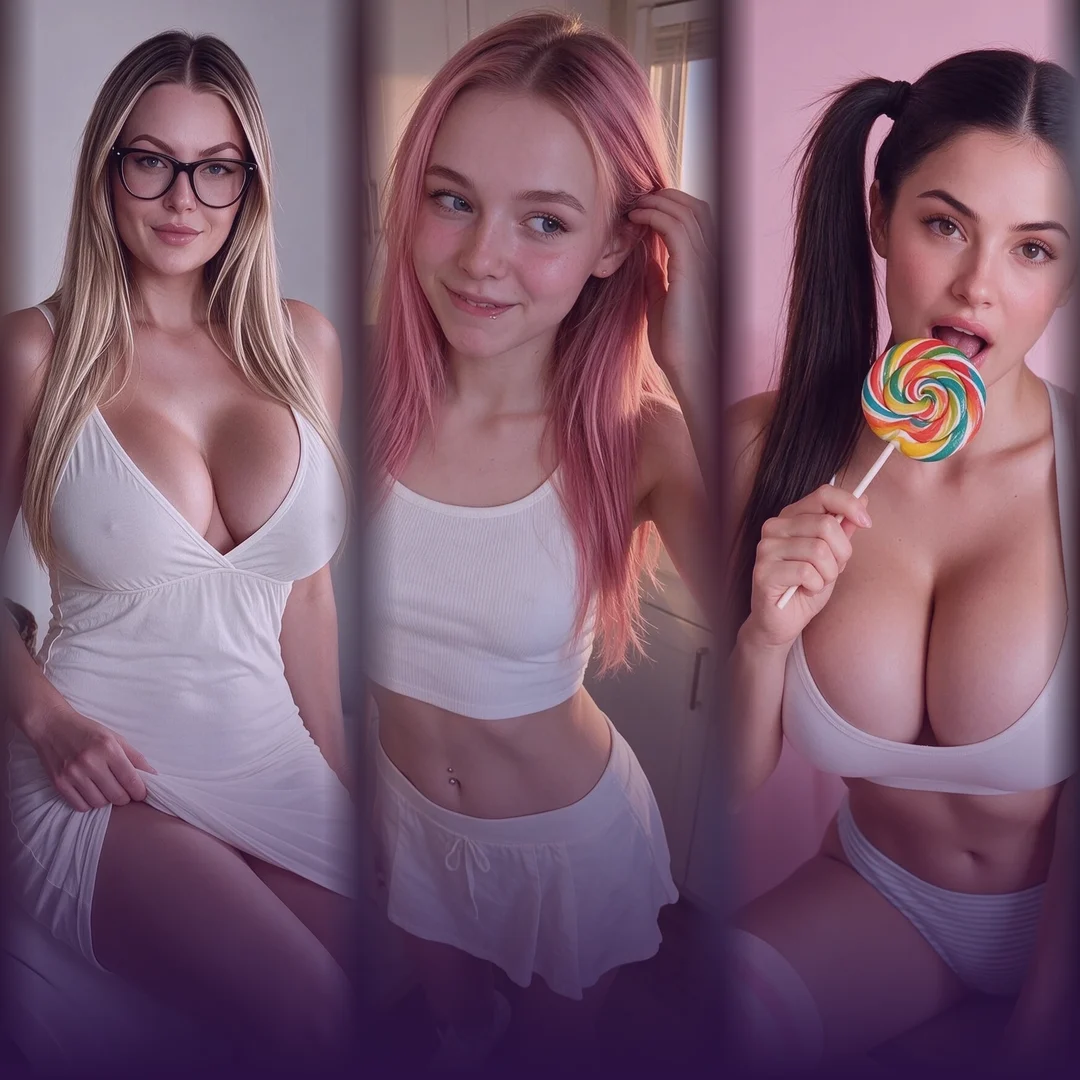
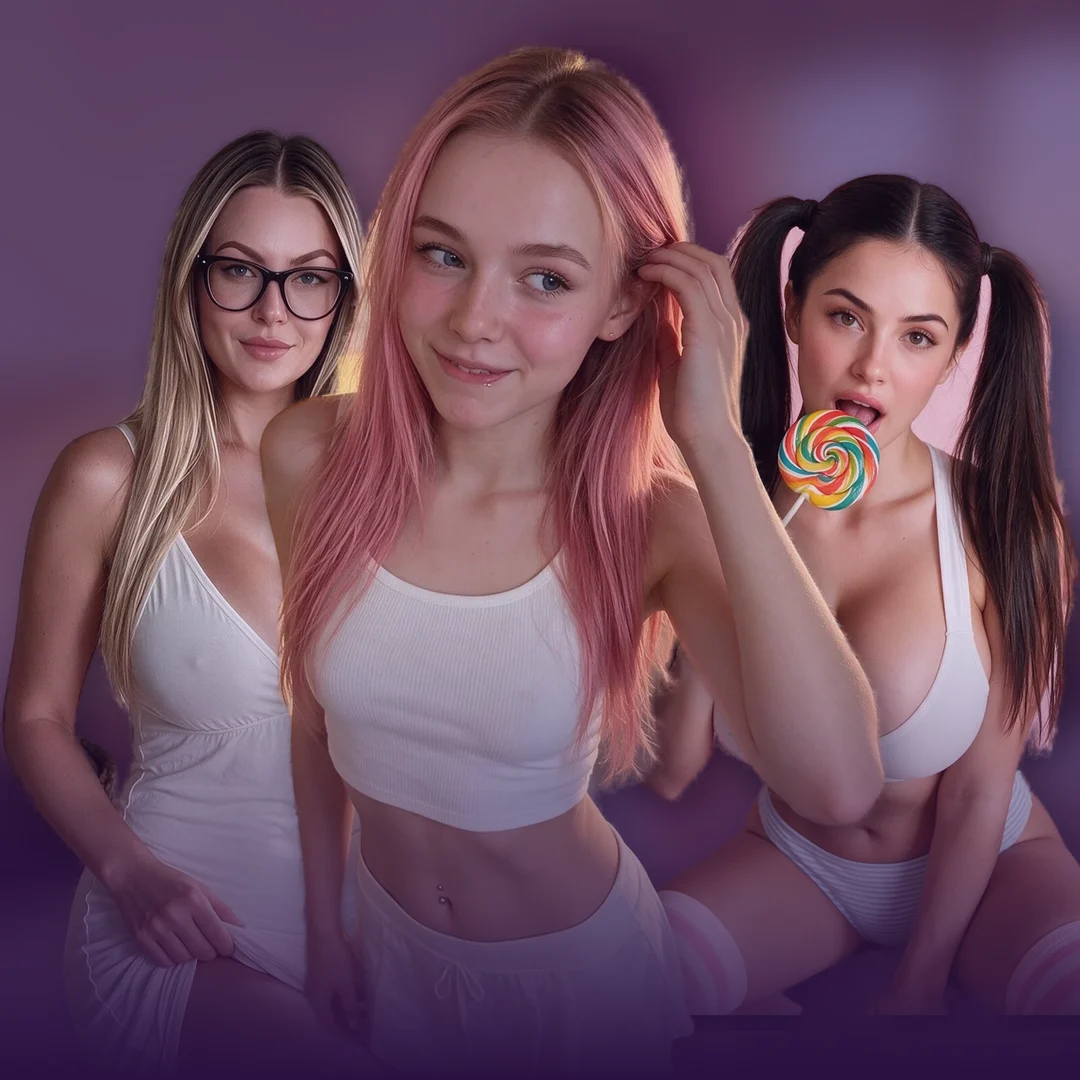
Каталог v2: промо-картинки как групповой снимок — три вырезанные фигуры на одном фоне
Вместо панелей-колонок: фон у девушек удалён (rembg, u2net_human_seg), фигуры поставлены
вместе на общий размытый фон с тенью, центральная впереди, боковые чуть сзади и мельче,
тонировка в цвет карточки. Скрипт сборки — assets/img/promo/compose-group.py
(compose-trio.py удалён). Фигуры — временные, с secrets.ai; до прода заменить на свои.

diff --git a/catalog/v2.html b/catalog/v2.html
@@ -769,7 +769,7 @@
 
   /* Промо-карточки сетки. Цену и скидку акции в проде отдаёт бэкенд (как у pb-sale),
      для VIP акция скрывается.
-     Фото promo/*-trio.webp — склейка трёх аватаров моделей secrets.ai (скрипт promo/compose-trio.py),
+     Фото promo/*-trio.webp — групповой снимок из трёх вырезанных аватаров моделей secrets.ai (скрипт promo/compose-group.py),
      временные; перед продом заменить на свои рендеры. */
   const createCard = `
     <a class="cc promo promo-create" href="#" data-intent="create" id="promo-create">

diff --git a/assets/img/promo/compose-group.py b/assets/img/promo/compose-group.py
@@ -1,0 +1,54 @@
+# Групповой снимок из трёх вырезанных фигур (PNG с альфой, фон удалён rembg) на одном общем фоне —
+# для промо-карточек каталога (catalog/v2.html). Квадрат 1080×1080: размытый фон из одного из исходных
+# фото, тонировка в цвет карточки, фигуры стоят вместе (центральная впереди, боковые чуть сзади и мельче),
+# снизу уход в фон карточки под текст. Запуск: python3 compose-group.py (нужен Pillow).
+# Текущие create-trio / sale-trio: фигуры — аватары моделей secrets.ai (Juliana · Steffi · Cecee и
+# Li Hua · Mei · Gloria), временные; перед продом заменить на свои рендеры.
+from PIL import Image, ImageDraw, ImageFilter, ImageEnhance
+S = 1080
+
+def figure(path, face_cx, face_cy, face_h, target_face=150):
+    """Вырезанная фигура, отмасштабированная так, чтобы высота лица стала target_face.
+    Возвращает (изображение RGBA, координата центра лица после масштабирования)."""
+    im = Image.open(path).convert('RGBA')
+    k = target_face / face_h
+    im = im.resize((int(im.width * k), int(im.height * k)), Image.LANCZOS)
+    return im, (face_cx * k, face_cy * k)
+
+def shadow(fig, blur=18, alpha=.45):
+    a = fig.split()[3].filter(ImageFilter.GaussianBlur(blur))
+    sh = Image.new('RGBA', fig.size, (0, 0, 0, 0)); sh.putalpha(a.point(lambda v: int(v * alpha)))
+    return sh
+
+def compose(bg_photo, figs, tint, out, bg, head_y=275):
+    """figs: [(fig, face_xy, canvas_face_x, dy, scale)] — слева, справа, центр (центр кладётся последним)."""
+    canvas = Image.open(bg_photo).convert('RGB')
+    canvas = canvas.resize((S, int(canvas.height * S / canvas.width)), Image.LANCZOS).crop((0, 0, S, S))
+    canvas = ImageEnhance.Brightness(canvas.filter(ImageFilter.GaussianBlur(28))).enhance(.55)
+    canvas = Image.blend(canvas, Image.new('RGB', (S, S), tint), .22).convert('RGBA')
+    for fig, (fx, fy), cx, dy, k in figs:
+        f = fig.resize((int(fig.width * k), int(fig.height * k)), Image.LANCZOS) if k != 1 else fig
+        x = int(cx - fx * k); y = int(head_y + dy - fy * k)
+        sh = shadow(f); canvas.alpha_composite(sh, (x + 10, y + 16))
+        canvas.alpha_composite(f, (x, y))
+    canvas = canvas.convert('RGB')
+    canvas = Image.blend(canvas, Image.new('RGB', (S, S), tint), .10)
+    g = Image.new('L', (S, S), 0); d = ImageDraw.Draw(g)
+    for y in range(S): d.line([(0, y), (S, y)], fill=int(255 * max(0, (y - S * .55) / (S * .45)) ** 1.2))
+    canvas = Image.composite(Image.new('RGB', (S, S), bg), canvas, g)
+    canvas.save(out, 'WEBP', quality=86)
+
+if __name__ == '__main__':
+    import sys
+    CUT = sys.argv[1] if len(sys.argv) > 1 else 'cut/'   # вырезанные PNG (в репозиторий не кладём)
+    AV = sys.argv[2] if len(sys.argv) > 2 else 'src/'    # исходные фото для фона
+    j, jf = figure(CUT + 'juliana.png', 614, 270, 175)
+    s, sf = figure(CUT + 'steffi.png', 589, 295, 180)
+    c, cf = figure(CUT + 'cecee.png', 450, 300, 230)
+    compose(AV + 'steffi.webp', [(j, jf, 270, 40, .94), (c, cf, 810, 40, .94), (s, sf, 540, 0, 1)],
+            (120, 40, 170), 'create-trio.webp', (42, 17, 64))
+    l, lf = figure(CUT + 'lihua.png', 510, 230, 190)
+    m, mf = figure(CUT + 'mei.png', 540, 295, 180)
+    g, gf = figure(CUT + 'gloria.png', 417, 393, 150)
+    compose(AV + 'gloria.webp', [(l, lf, 270, 40, .94), (g, gf, 810, 40, .94), (m, mf, 540, 0, 1)],
+            (255, 140, 40), 'sale-trio.webp', (42, 20, 7))
